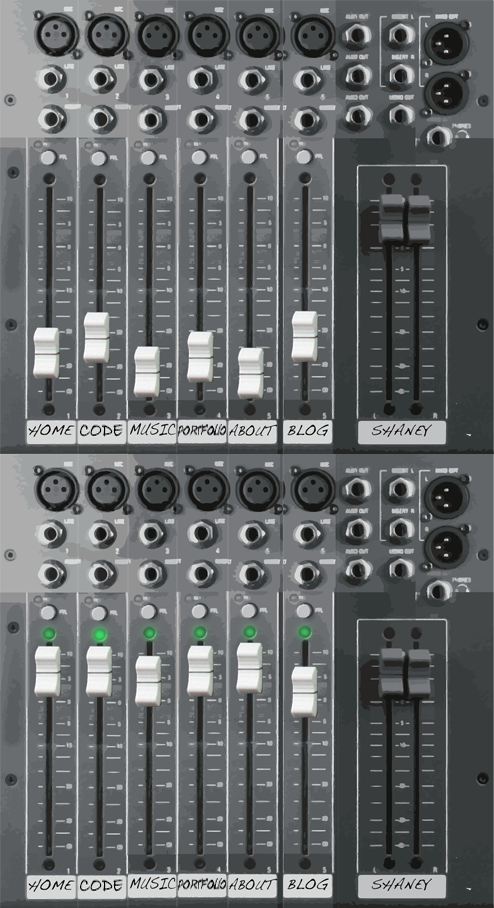
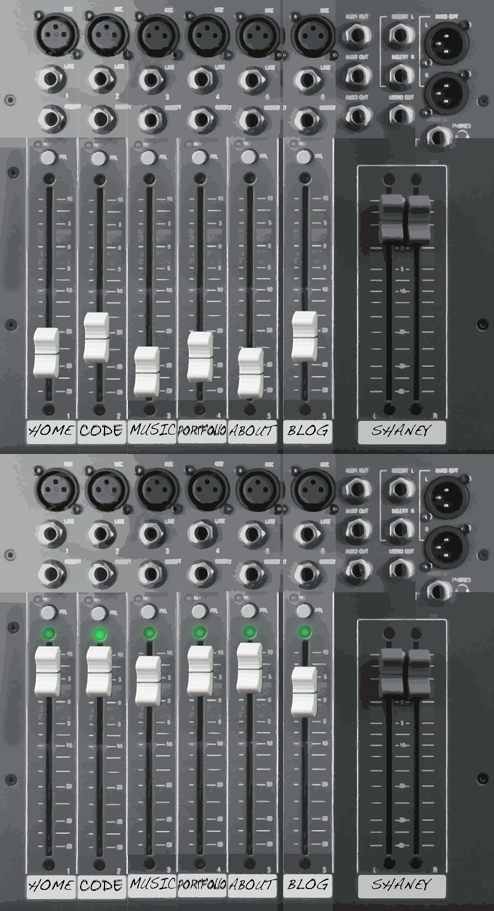
aligned styling of mixer mouseovers

diff --git a/index.html b/index.html
@@ -134,27 +134,27 @@
 }
 
 #code a:hover {
-    background: url('img/MIXERfull.png') -47px -45px;
+    background: url('img/MIXERfull.png') -78px -455px;
     transition: 0s display;
 }
 
 #music a:hover {
-    background: url('img/MIXERfull.png') -91px -45px;
+    background: url('img/MIXERfull.png') -129px -455px;
     transition: 0s display;
 }
 
 #portfolio a:hover {
-    background: url('img/MIXERfull.png') 0 -45px;
+    background: url('img/MIXERfull.png') -180px -455px;
     transition: 0s display;
 }
 
 #aboutme a:hover {
-    background: url('img/MIXERfull.png') -47px -45px;
+    background: url('img/MIXERfull.png') -231px -455px;
     transition: 0s display;
 }
 
 #blog a:hover {
-    background: url('img/MIXERfull.png') -91px -45px;
+    background: url('img/MIXERfull.png') -282px -455px;
     transition: 0s display;
 }
 </style>
